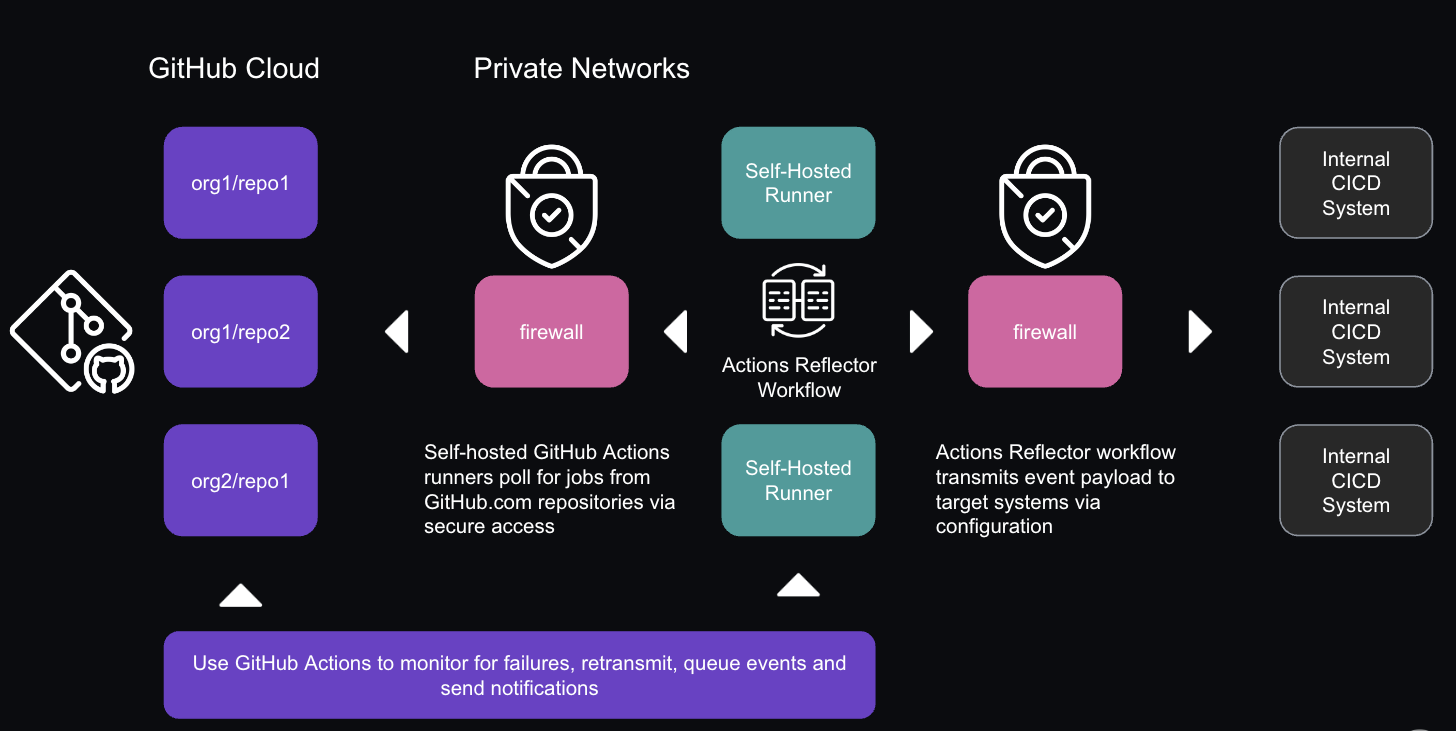
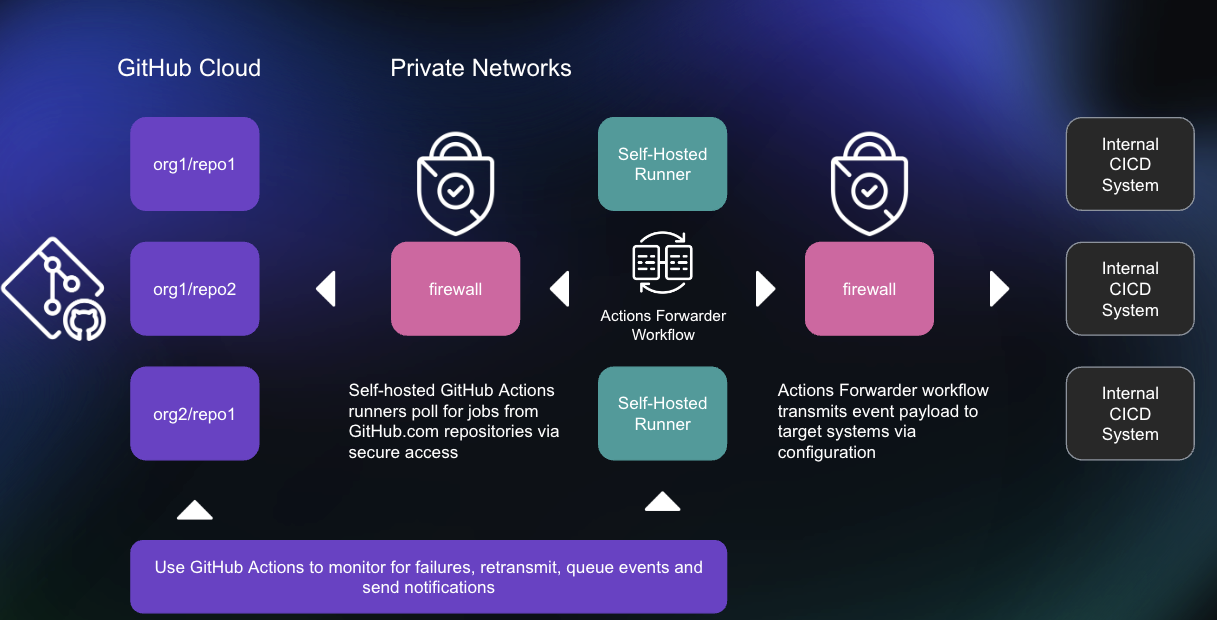
rename to forwarder

diff --git a/dist/index.js b/dist/index.js
@@ -42073,10 +42073,10 @@ function wrappy (fn, cb) {
 
 /***/ }),
 
-/***/ 8917:
+/***/ 2468:
 /***/ ((module, __unused_webpack_exports, __nccwpck_require__) => {
 
-// reflector.js
+// forwarder.js
 
 const request = __nccwpck_require__(1265);
 const crypto = __nccwpck_require__(6113);
@@ -42181,8 +42181,8 @@ function getRequestOptions(context, targetUrl, webhookSecret) {
   return options;
 }
 
-// Main Reflector function
-async function reflector({context, targetUrl, webhookSecret, allowListSource}) {
+// Main Forwarder function
+async function forwarder({context, targetUrl, webhookSecret, allowListSource}) {
   // Validate that targetUrl is a valid URL
   validateUrl(targetUrl);
 
@@ -42215,7 +42215,7 @@ async function reflector({context, targetUrl, webhookSecret, allowListSource}) {
 };
 
 // Export private functions for testing
-const reflectorPrivate = {
+const forwarderPrivate = {
   validateUrl,
   fetchAllowListSource,
   validateAllowList,
@@ -42224,8 +42224,8 @@ const reflectorPrivate = {
 };
 
 module.exports = {
-  reflectorPrivate,
-  reflector,
+  forwarderPrivate,
+  forwarder,
 };
 
 
@@ -42612,15 +42612,15 @@ var __webpack_exports__ = {};
 
 const core = __nccwpck_require__(9991);
 const github = __nccwpck_require__(6140);
-const { reflector } = __nccwpck_require__(8917);
+const { forwarder } = __nccwpck_require__(2468);
 
 // Parse inputs
 const targetUrl = core.getInput('target-url');
 const webhookSecret = core.getInput('webhook-secret');
 const allowListSource = core.getInput('allow-list-source');
 
-// Run the Reflector action
-reflector({
+// Run the Forwarder action
+forwarder({
   context: github.context,
   targetUrl: targetUrl,
   webhookSecret: webhookSecret,

diff --git a/src/forwarder.js b/src/forwarder.js
@@ -1,4 +1,4 @@
-// reflector.js
+// forwarder.js
 
 const request = require('request');
 const crypto = require('crypto');
@@ -103,8 +103,8 @@ function getRequestOptions(context, targetUrl, webhookSecret) {
   return options;
 }
 
-// Main Reflector function
-async function reflector({context, targetUrl, webhookSecret, allowListSource}) {
+// Main Forwarder function
+async function forwarder({context, targetUrl, webhookSecret, allowListSource}) {
   // Validate that targetUrl is a valid URL
   validateUrl(targetUrl);
 
@@ -137,7 +137,7 @@ async function reflector({context, targetUrl, webhookSecret, allowListSource}) {
 };
 
 // Export private functions for testing
-const reflectorPrivate = {
+const forwarderPrivate = {
   validateUrl,
   fetchAllowListSource,
   validateAllowList,
@@ -146,6 +146,6 @@ const reflectorPrivate = {
 };
 
 module.exports = {
-  reflectorPrivate,
-  reflector,
+  forwarderPrivate,
+  forwarder,
 };

diff --git a/src/index.js b/src/index.js
@@ -2,15 +2,15 @@
 
 const core = require('@actions/core');
 const github = require('@actions/github');
-const { reflector } = require('./reflector');
+const { forwarder } = require('./forwarder');
 
 // Parse inputs
 const targetUrl = core.getInput('target-url');
 const webhookSecret = core.getInput('webhook-secret');
 const allowListSource = core.getInput('allow-list-source');
 
-// Run the Reflector action
-reflector({
+// Run the Forwarder action
+forwarder({
   context: github.context,
   targetUrl: targetUrl,
   webhookSecret: webhookSecret,

diff --git a/__test__/forwarder.test.js b/__test__/forwarder.test.js
@@ -1,7 +1,7 @@
-// Tests for functions in reflector.js
+// Tests for functions in forwarder.js
 
-const reflector = require('../src/reflector');
-const { validateUrl, fetchAllowListSource, validateAllowList, getWebhookSignature, getRequestOptions } = reflector.reflectorPrivate;
+const forwarder = require('../src/forwarder');
+const { validateUrl, fetchAllowListSource, validateAllowList, getWebhookSignature, getRequestOptions } = forwarder.forwarderPrivate;
 
 let allowListObject = [
   'https://github.com',

diff --git a/README.md b/README.md
@@ -1,6 +1,6 @@
-[![CodeQL](https://github.com/collinmcneese/github-actions-reflector/actions/workflows/codeql.yml/badge.svg)](https://github.com/collinmcneese/github-actions-reflector/actions/workflows/codeql.yml) [![ci](https://github.com/collinmcneese/github-actions-reflector/actions/workflows/ci.yml/badge.svg)](https://github.com/collinmcneese/github-actions-reflector/actions/workflows/ci.yml)
+[![CodeQL](https://github.com/collinmcneese/github-actions-forwarder/actions/workflows/codeql.yml/badge.svg)](https://github.com/collinmcneese/github-actions-forwarder/actions/workflows/codeql.yml) [![ci](https://github.com/collinmcneese/github-actions-forwarder/actions/workflows/ci.yml/badge.svg)](https://github.com/collinmcneese/github-actions-forwarder/actions/workflows/ci.yml)
 
-# GitHub Actions Reflector
+# GitHub Actions Forwarder
 
 GitHub Actions workflow meant to run on [self-hosted](https://docs.github.com/en/actions/hosting-your-own-runners/about-self-hosted-runners) runners to leverage internal or private tooling (such as CICD systems) with GitHub repositories without the need to use reverse proxy implementations.  Additionally could be used with [GitHub Larger Runners](https://docs.github.com/en/actions/using-github-hosted-runners/using-larger-runners) with reserved IPs to minimize ingress points and remove the need for self-hosted runner administration and maintenance.
 
@@ -14,7 +14,7 @@ The contents of this repository are individually maintained and are not a direct
 
 - `target-url`: **String**, **Required**
 
-  The target URL destination where webhook event payloads will be reflected to.
+  The target URL destination where webhook event payloads will be forwarded to.
 - `webhook-secret`: **String**, **Optional**
 
   Secret data value to use for webhook payload.  Populates `X-Hub-Signature` and `X-Hub-Signature-256` header values. See [Securing Your Webhooks](https://docs.github.com/en/developers/webhooks-and-events/webhooks/securing-your-webhooks) for additional context.
@@ -35,29 +35,29 @@ The contents of this repository are individually maintained and are not a direct
 
 ### Examples
 
-Example simple workflow for consuming reflector:
+Example simple workflow for consuming forwarder:
 
 ```yaml
-name: reflector-call
+name: forwarder-call
 
 on:
   pull_request:
 
 jobs:
-  reflector-call:
+  forwarder-call:
     runs-on: self-hosted
     steps:
-    - name: GitHub Actions Reflector
-      uses: collinmcneese/github-actions-reflector@main
+    - name: GitHub Actions Forwarder
+      uses: collinmcneese/github-actions-forwarder@v1
       with:
         target-url: 'http://172.17.0.1:8080/github-webhook/'
-        webhook-secret: ${{ secrets.REFLECTOR_WEBHOOK_SECRET }}
+        webhook-secret: ${{ secrets.FORWARDER_WEBHOOK_SECRET }}
 ```
 
 Example workflow using [variables](https://docs.github.com/en/actions/learn-github-actions/variables) to target requests to different endpoints:
 
 ```yaml
-name: reflector-dynamic
+name: forwarder-dynamic
 
 on:
   pull_request:
@@ -65,38 +65,38 @@ on:
   issues:
 
 jobs:
-  reflector-call:
+  forwarder-call:
     runs-on: self-hosted
     steps:
-    - name: Push - Reflector
+    - name: Push - Forwarder
       if: |
         github.event_name == 'push' ||
         github.event_name == 'pull_request'
-      uses: collinmcneese/github-actions-reflector@main
+      uses: collinmcneese/github-actions-forwarder@v1
       with:
-        target-url: ${{ vars.REFLECTOR_TARGET_PUSH }}
-        webhook-secret: ${{ secrets.REFLECTOR_WEBHOOK_SECRET_PUSH }}
-        allow-list-source: ${{ vars.REFLECTOR_ALLOW_LIST }}
-    - name: Issue - Reflector
+        target-url: ${{ vars.FORWARDER_TARGET_PUSH }}
+        webhook-secret: ${{ secrets.FORWARDER_WEBHOOK_SECRET_PUSH }}
+        allow-list-source: ${{ vars.FORWARDER_ALLOW_LIST }}
+    - name: Issue - Forwarder
       if: ${{ github.event_name == 'issues' }}
-      uses: collinmcneese/github-actions-reflector@main
+      uses: collinmcneese/github-actions-forwarder@v1
       with:
-        target-url:  ${{ vars.REFLECTOR_TARGET_ISSUES }}
-        webhook-secret: ${{ secrets.REFLECTOR_WEBHOOK_SECRET_ISSUES }}
-        allow-list-source: ${{ vars.REFLECTOR_ALLOW_LIST }}
+        target-url:  ${{ vars.FORWARDER_TARGET_ISSUES }}
+        webhook-secret: ${{ secrets.FORWARDER_WEBHOOK_SECRET_ISSUES }}
+        allow-list-source: ${{ vars.FORWARDER_ALLOW_LIST }}
 ```
 
 ## Why Does This Exist?
 
-### Reflector Method
+### Forwarder Method
 
-Example overview of an implementation which uses the Actions Reflector workflow to route repository webhook events to internal systems.  Actions Reflector is executed as a GitHub Actions workflow from `on:` events such as `push:` or `pull_request:` on self-hosted runners, routing event payloads to downstream target systems.  This configuration leverages queueing, notification and retransmission capabilities of GitHub Actions and leverages self-hosted runners to prevent the need for ingress traffic initiation at a network edge.
+Example overview of an implementation which uses the Actions Forwarder workflow to route repository webhook events to internal systems.  Actions Forwarder is executed as a GitHub Actions workflow from `on:` events such as `push:` or `pull_request:` on self-hosted runners, routing event payloads to downstream target systems.  This configuration leverages queueing, notification and retransmission capabilities of GitHub Actions and leverages self-hosted runners to prevent the need for ingress traffic initiation at a network edge.
 
-<img src="./docs/010.png" alt="reflector-setup">
+<img src="./docs/010.png" alt="forwarder-setup">
 
 ---
 
-### Reverse Proxy Method (not Using Reflector)
+### Reverse Proxy Method (not Using Forwarder)
 
 Example overview of an implementation which uses reverse proxy or an API gateway to allow webhook traffic from GitHub cloud repositories to internal systems.  In this setup, webhook events are sent from github.com to a reverse proxy or API gateway which are routed to an internal CICD system.  This example pattern becomes more complicated when adding additional reliability measures in place such as webhook notifications (success or failure), retransmissions and potentially a queueing mechanism at the API gateway layer to handle traffic bursts and scale as required.
 
